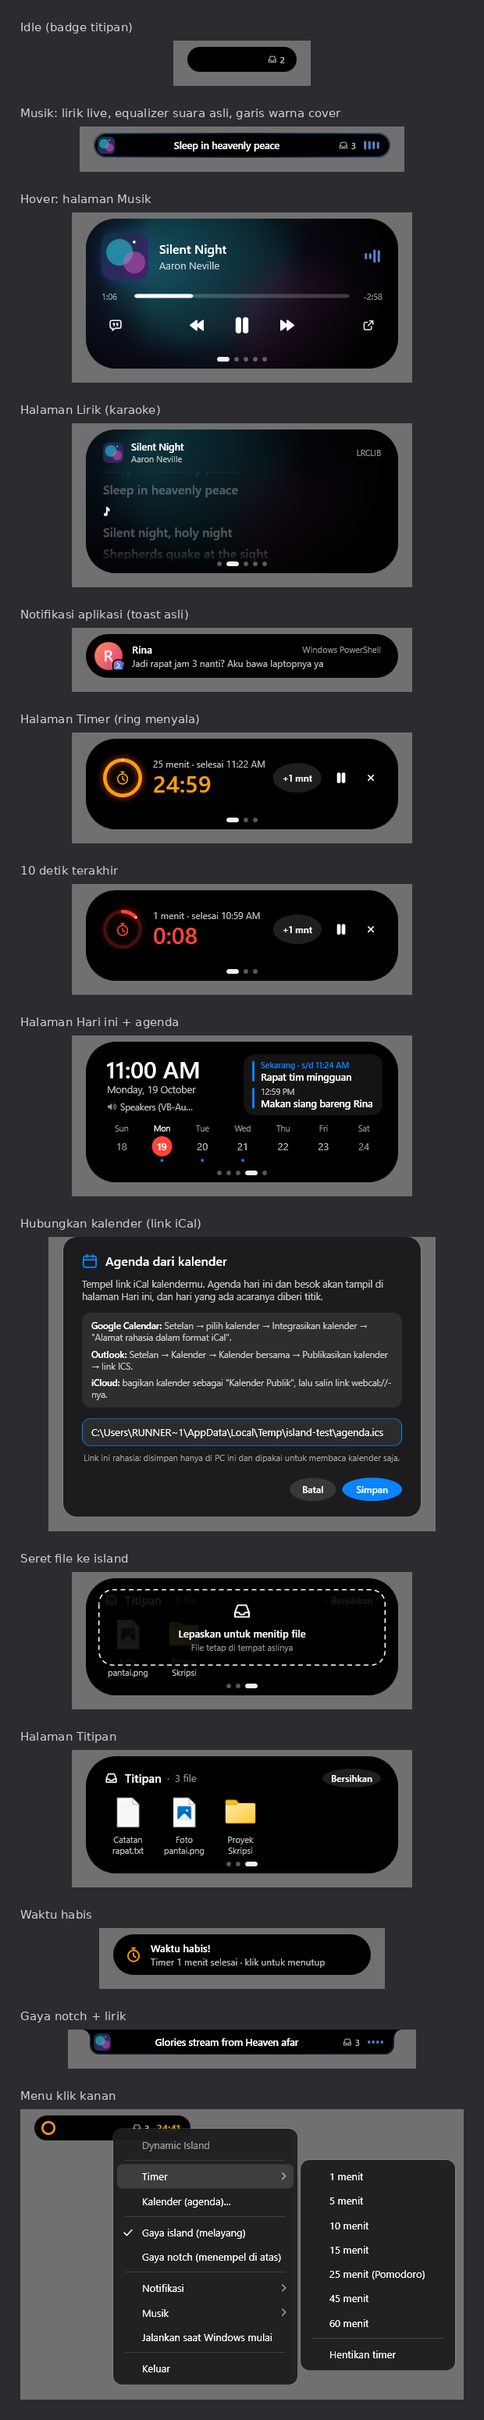
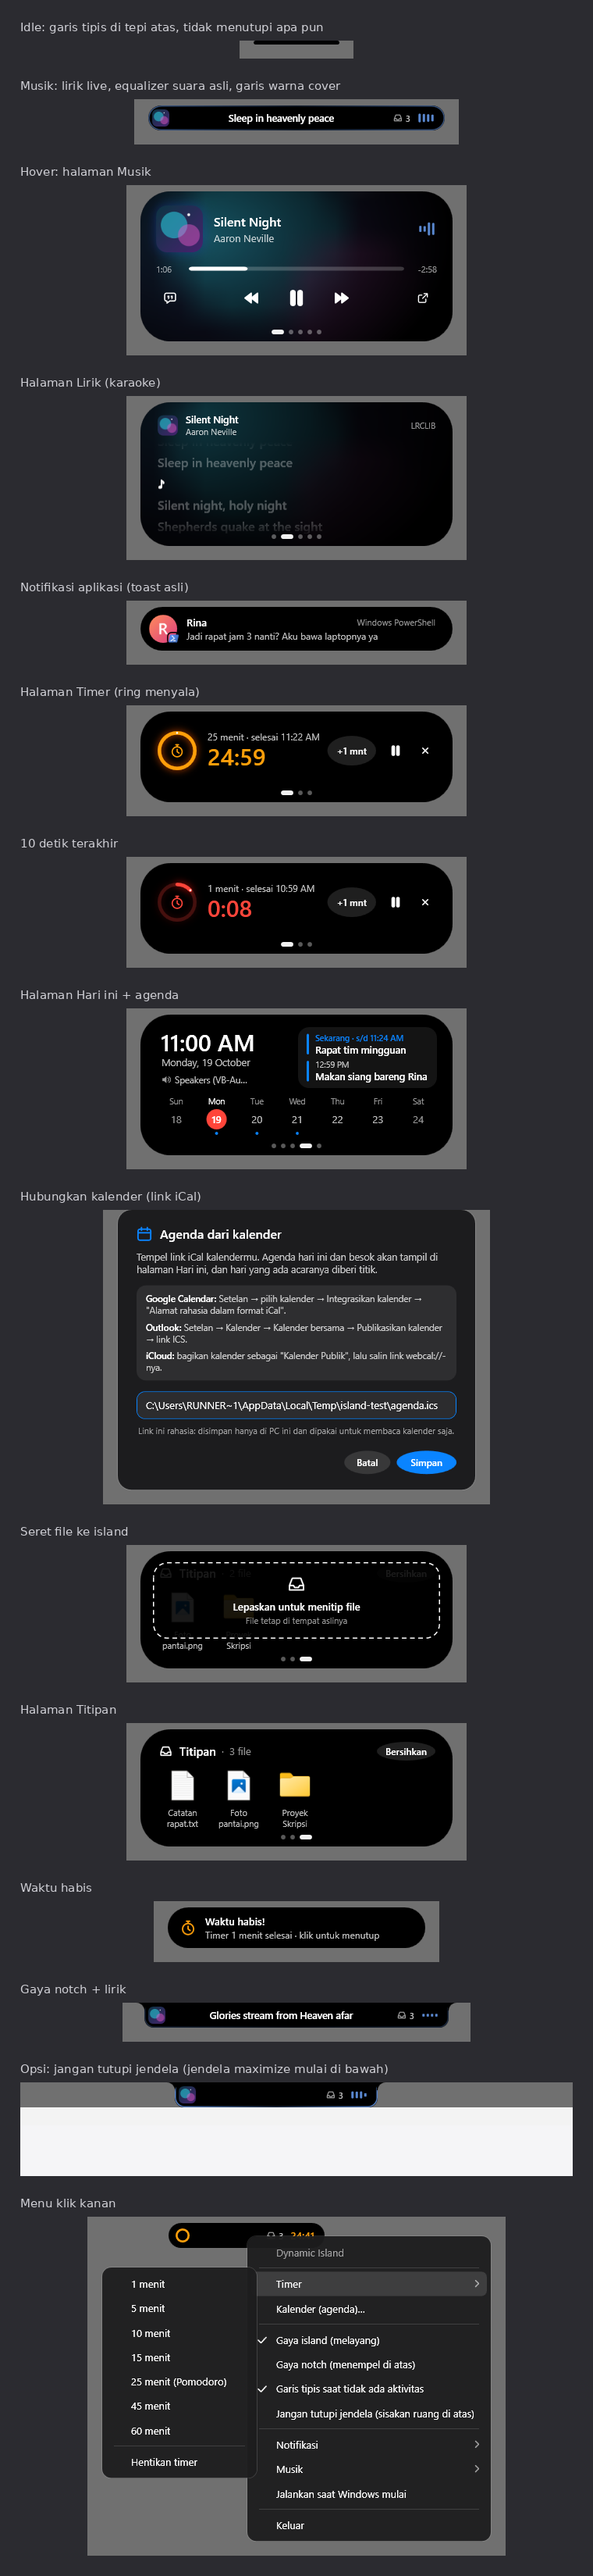
Document the thin idle line, reserved space and single notifications
Claude-Session: https://claude.ai/code/session_01FNFmop3prSwewfsnt3MRNv

diff --git a/README.md b/README.md
@@ -47,6 +47,15 @@ buatan tes dengan lagu domain publik, notifikasinya toast sungguhan, dan agendan
   aplikasinya; arahkan kursor untuk menahannya. Mengikuti aturan Windows: tidak muncul saat
   *Do not disturb* / Fokus aktif atau untuk aplikasi yang notifikasinya dimatikan. Isi pesan bisa
   disembunyikan (klik kanan → Notifikasi → Tampilkan isi pesan).
+  **Tidak dobel**: setelah island menampilkan notifikasi sebuah aplikasi, banner bawaan Windows untuk
+  aplikasi itu dimatikan (saklar yang sama dengan Settings → Notifikasi → aplikasi → *Show
+  notification banners*), jadi pesan berikutnya hanya muncul sekali, di island. Pesannya tetap masuk
+  ke pusat notifikasi Windows. Saat island ditutup, banner Windows otomatis dinyalakan lagi.
+- **Tidak menghalangi**: saat tidak ada aktivitas, island menjadi garis tipis di tepi paling atas
+  layar, jadi tab browser dan tombol di bawahnya tetap bisa dipakai; dorong kursor ke tengah atas
+  untuk membukanya. Island juga baru terbuka kalau kursor *berhenti* di atasnya, bukan sekadar lewat.
+  Opsi **Jangan tutupi jendela** menyisakan ruang di atas layar seperti taskbar, sehingga jendela
+  yang di-maximize mulai di bawah island.
 - **Lagu baru**: notifikasi singkat berisi cover, judul, dan artis setiap kali lagu berganti.
 - **Timer & Pomodoro**: mulai dari halaman Timer (5–45 menit) atau menu klik kanan (1–60 menit).
   Island ringkas menampilkan ring hitung mundur + sisa waktu (berdampingan dengan cover kalau musik
@@ -70,9 +79,10 @@ buatan tes dengan lagu domain publik, notifikasinya toast sungguhan, dan agendan
 - Animasi pegas (*spring*) dengan sedikit pantulan seperti aslinya, tajam di semua skala DPI.
 - Tidak mencuri fokus saat diklik dan tidak muncul di taskbar maupun Alt+Tab.
 
-Klik kanan island untuk menu: **Timer**, **Kalender**, gaya island/notch, **Notifikasi** (volume,
-lagu baru, perangkat audio, mikrofon & kamera, notifikasi aplikasi — masing-masing bisa dimatikan),
-**Musik** (lirik, equalizer suara asli, garis warna cover), jalankan saat Windows mulai, dan keluar.
+Klik kanan island untuk menu: **Timer**, **Kalender**, gaya island/notch, garis tipis saat diam,
+jangan tutupi jendela, **Notifikasi** (volume, lagu baru, perangkat audio, mikrofon & kamera,
+notifikasi aplikasi, tanpa banner Windows — masing-masing bisa dimatikan), **Musik** (lirik,
+equalizer suara asli, garis warna cover), jalankan saat Windows mulai, dan keluar.
 
 ## Kenapa ringan
 
@@ -188,6 +198,10 @@ tools/ui-smoke-test.ps1     Tes UI otomatis di CI (menjalankan app, klik-klik, a
   aplikasi yang dipaketkan sebagai MSIX. Formatnya tidak didokumentasikan, jadi update Windows bisa
   saja mengubahnya; kalau itu terjadi, fitur ini diam saja (tidak mengganggu fitur lain). Klik
   notifikasi membuka aplikasinya, belum langsung ke chat tertentu.
+- Pesan pertama dari sebuah aplikasi masih muncul dobel (banner Windows-nya baru dimatikan setelah
+  itu). Kalau island dihentikan paksa (Task Manager), banner Windows untuk aplikasi tersebut tetap
+  mati sampai island jalan dan ditutup lagi lewat **Keluar**, atau sampai dinyalakan manual di
+  Settings → Notifikasi.
 - Aplikasi Kalender bawaan Windows sudah dihentikan Microsoft dan Outlook baru tidak membagikan
   agendanya ke aplikasi lain, jadi agenda memakai link iCal. Link itu rahasia: hanya disimpan di
   `settings.json` di PC ini.
